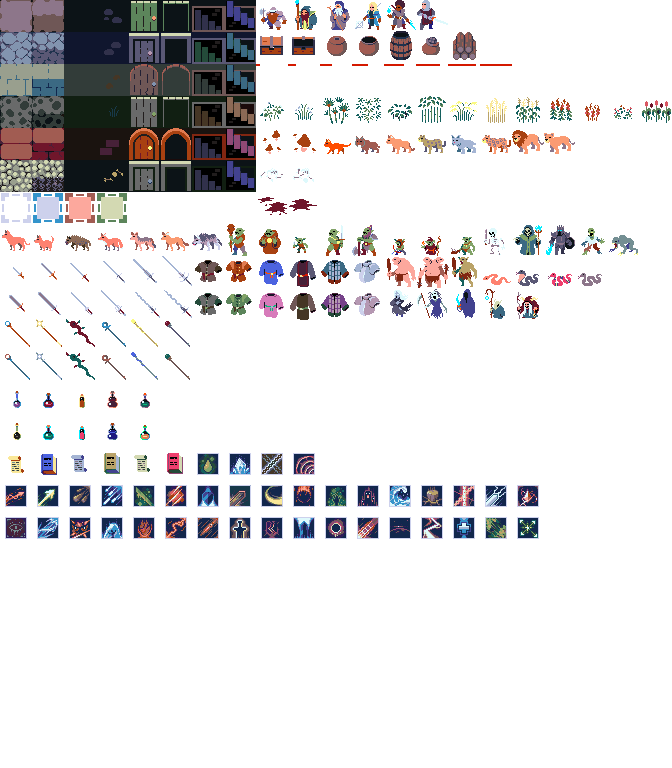
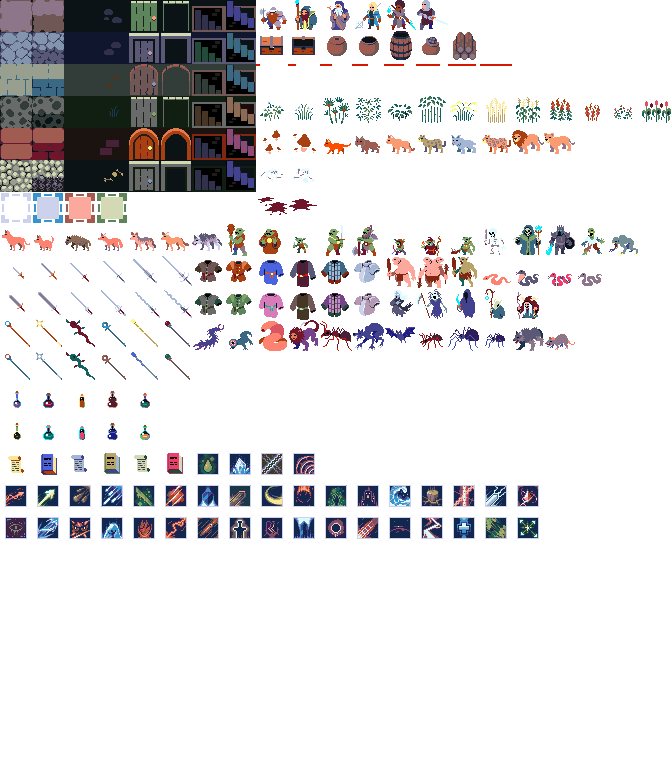
more tiles

Changed region(s): [[0.2812, 0.4062, 0.625, 0.4688], [0.6875, 0.4062, 0.8438, 0.4688], [0.625, 0.4375, 0.6562, 0.4688]]

diff --git a/src/tiles.js b/src/tiles.js
@@ -113,7 +113,18 @@ const gameTilemap = {
   wraith: [448, 288],
   cultist: [480, 288],
   witch: [512, 288],
-
+  'giant centipede': [192, 320],
+  lampreymander: [224, 320],
+  'giant earthworm': [256, 320],
+  manticore: [288, 320],
+  'giant ant': [320, 320],
+  lycanthrope: [352, 320],
+  'giant bata': [384, 320],
+  'lesser giant ant': [416, 320],
+  'giant spider': [448, 320],
+  'lesser giant spider': [480, 320],
+  warg: [512, 320],
+  'giant rat': [544, 320],
   //player tiles
   warrior1: [256, 0],
   wizard1: [288, 0],
